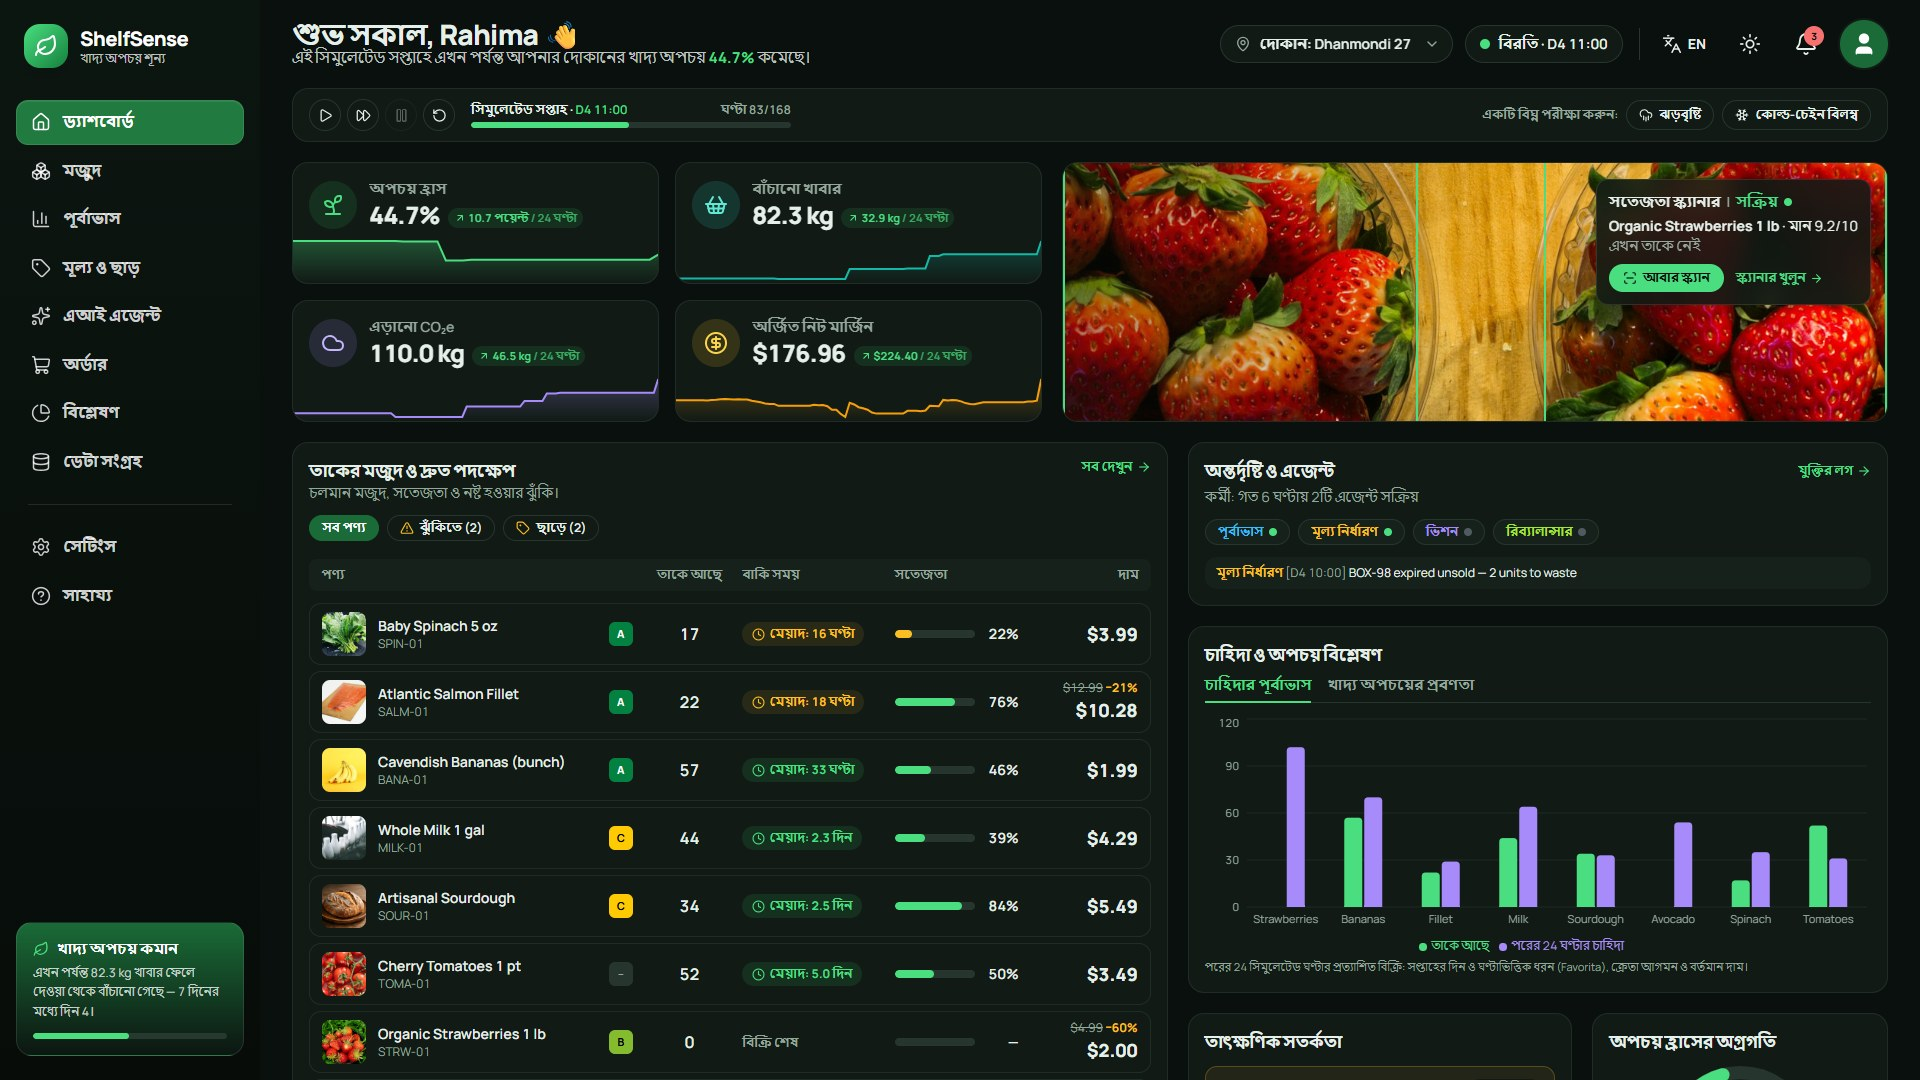
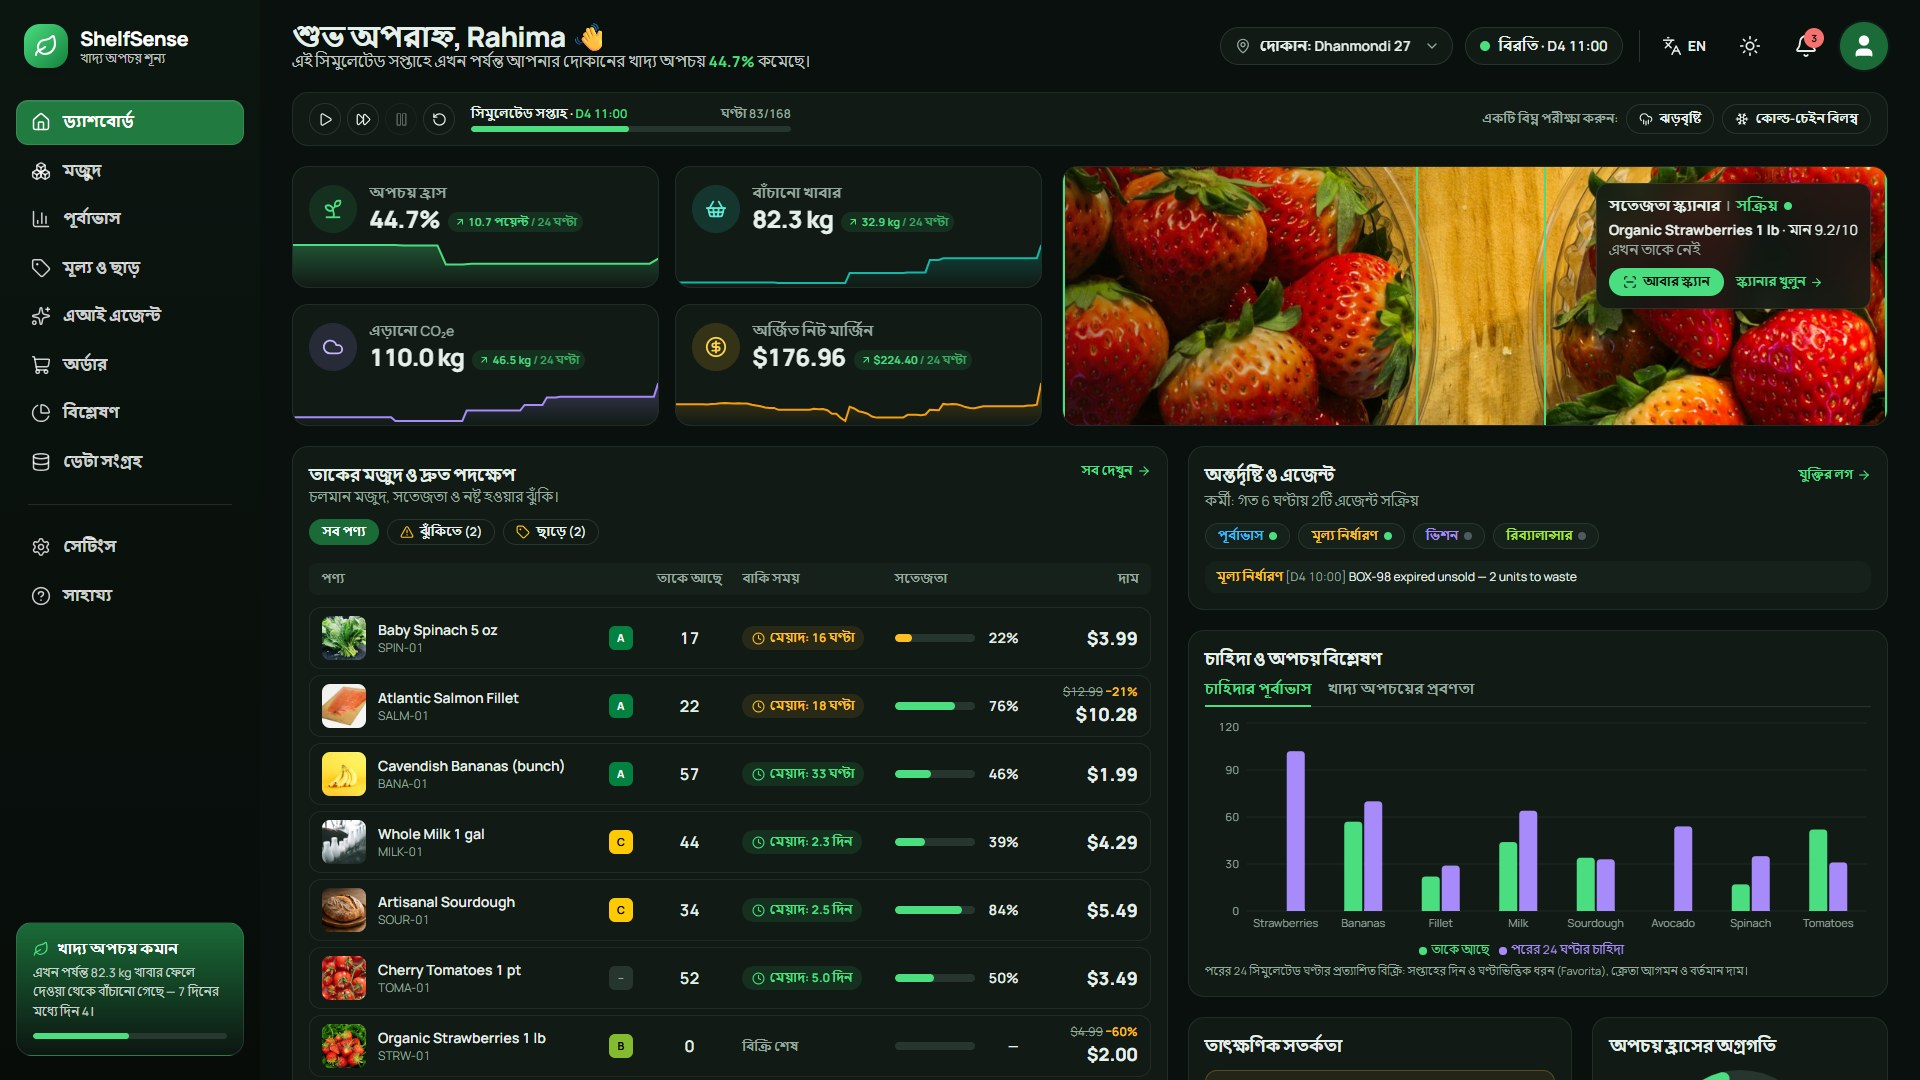
docs: README screenshots, phone views and demo GIF for the new login and mobile layout
Re-shot sign-in (full-window), dashboard (EN/BN) and the GIF with the same scripts and sizes;
added phone dashboard + hamburger menu stills. Phone fixes found while shooting: stat-card
change badges no longer wrap, scan boxes stay inside the banner photo.

diff --git a/frontend/src/components/StatCard.tsx b/frontend/src/components/StatCard.tsx
@@ -92,12 +92,12 @@ export default function StatCard({ label, value, format, change, history, Icon, 
             <span className="text-xl font-extrabold tracking-tight sm:text-2xl">{value === null ? '—' : format(shown)}</span>
             {moved && change && (
               <span
-                className={`inline-flex items-center gap-0.5 rounded-full px-1.5 py-0.5 text-[11px] font-bold ${up ? 'bg-mint text-accent' : 'bg-crit/10 text-crit'}`}
+                className={`inline-flex items-center gap-0.5 whitespace-nowrap rounded-full px-1.5 py-0.5 text-[11px] font-bold ${up ? 'bg-mint text-accent' : 'bg-crit/10 text-crit'}`}
                 title={t('Change over the last 24 simulated hours')}
               >
                 {up ? <ArrowUpRight size={12} aria-hidden /> : <ArrowDownRight size={12} aria-hidden />}
                 {change.text}
-                <span className="font-semibold opacity-70">/ {t('24 h')}</span>
+                <span className="hidden font-semibold opacity-70 sm:inline">/ {t('24 h')}</span>
               </span>
             )}
           </div>

diff --git a/frontend/src/components/FreshnessHero.tsx b/frontend/src/components/FreshnessHero.tsx
@@ -43,7 +43,7 @@ export default function FreshnessHero() {
 
   return (
     <section aria-label={t('Freshness scanner')} className="zone relative min-h-[190px] overflow-hidden max-sm:border-accent/50 sm:min-h-[260px]">
-      <div ref={box} className="absolute inset-y-0 right-0 w-[62%] sm:inset-x-0 sm:w-auto">
+      <div ref={box} className="absolute inset-y-0 right-0 w-[62%] overflow-hidden sm:inset-x-0 sm:w-auto">
         <img
           src={v.imageUrl}
           alt={t('Shelf camera view of the fresh produce aisle')}

diff --git a/README.md b/README.md
@@ -19,6 +19,10 @@ Sign in, create an account (confirmed with a 6-digit code by email), or continue
 
 <img src="docs/signin.jpg" alt="Sign-in screen in the dark theme: create an account or continue as a guest" width="420"> <img src="docs/signin-bn.jpg" alt="The same sign-in screen in Bengali" width="420">
 
+On a phone the sidebar becomes a hamburger menu and a bottom tab bar, and the dashboard's inventory, agent and analytics panels fold away.
+
+<img src="docs/phone.jpg" alt="Phone dashboard in the dark theme on Day 4: app bar with menu, alerts and profile; week controls; KPI cards; freshness scanner; bottom tab bar" width="260"> <img src="docs/phone-menu.jpg" alt="The phone hamburger menu open, listing every page with language and theme buttons" width="260">
+
 The app is split into tabs: Dashboard, Inventory, Forecast, Pricing & Discounts, AI Agents, Orders,
 Analytics, Data Ingestion, Settings (profile name and store, saved in the browser) and Help. A sun/moon button switches
 between the light and dark themes (it follows the OS setting until you pick one). A language button switches the interface
